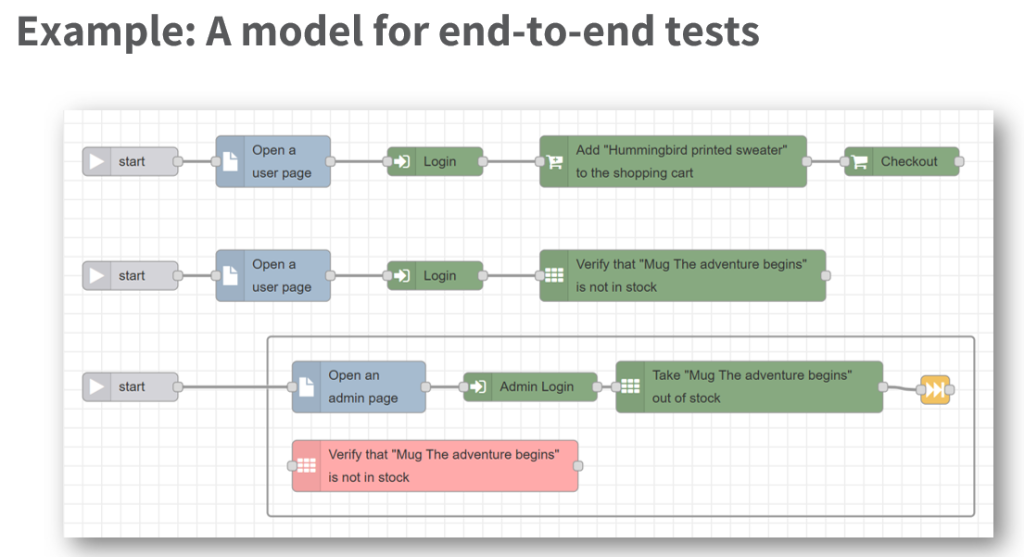
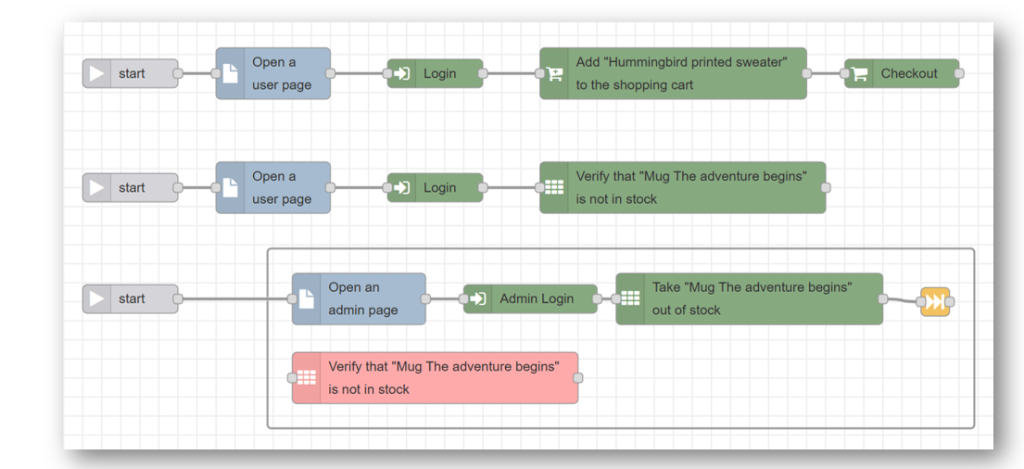
feat: Add `online_store_end_to_end.png` to slides, update image cropping to process it, and remove image border styling.

diff --git a/crop_images.py b/crop_images.py
@@ -73,7 +73,7 @@ def crop_header(image_path):
         print(f"Error processing {image_path}: {e}")
 
 base_dir = r"c:\Users\geraw\provengo-seminar\public\slides_images"
-images = ["online_store_login.png", "online_store_add_to_cart.png"]
+images = ["online_store_end_to_end.png"]
 
 for img_name in images:
     crop_header(os.path.join(base_dir, img_name))

diff --git a/slides.md b/slides.md
@@ -817,14 +817,16 @@ Speaker notes here...
 <div class="space-y-4">
 
 - <strong class="text-blue-800">Composition</strong>:
+
     - We compose the low-level blocks (Open page, Login, Add to cart, Checkout) into high-level scenarios.
+
 - <strong class="text-blue-800">Verification</strong>:
     - We can verify "Admin takes item out of stock" vs "User tries to buy item".
     - Provengo explores the interleavings of these scenarios.
     
 </div>
 <div class="flex items-center justify-center">
-  <img src="/slides_images/online_store_end_to_end.png" class="w-full rounded-lg shadow-xl border-2 border-gray-100" />
+  <img src="/slides_images/online_store_end_to_end.png" class="w-full" />
 </div>
 </div>
 
